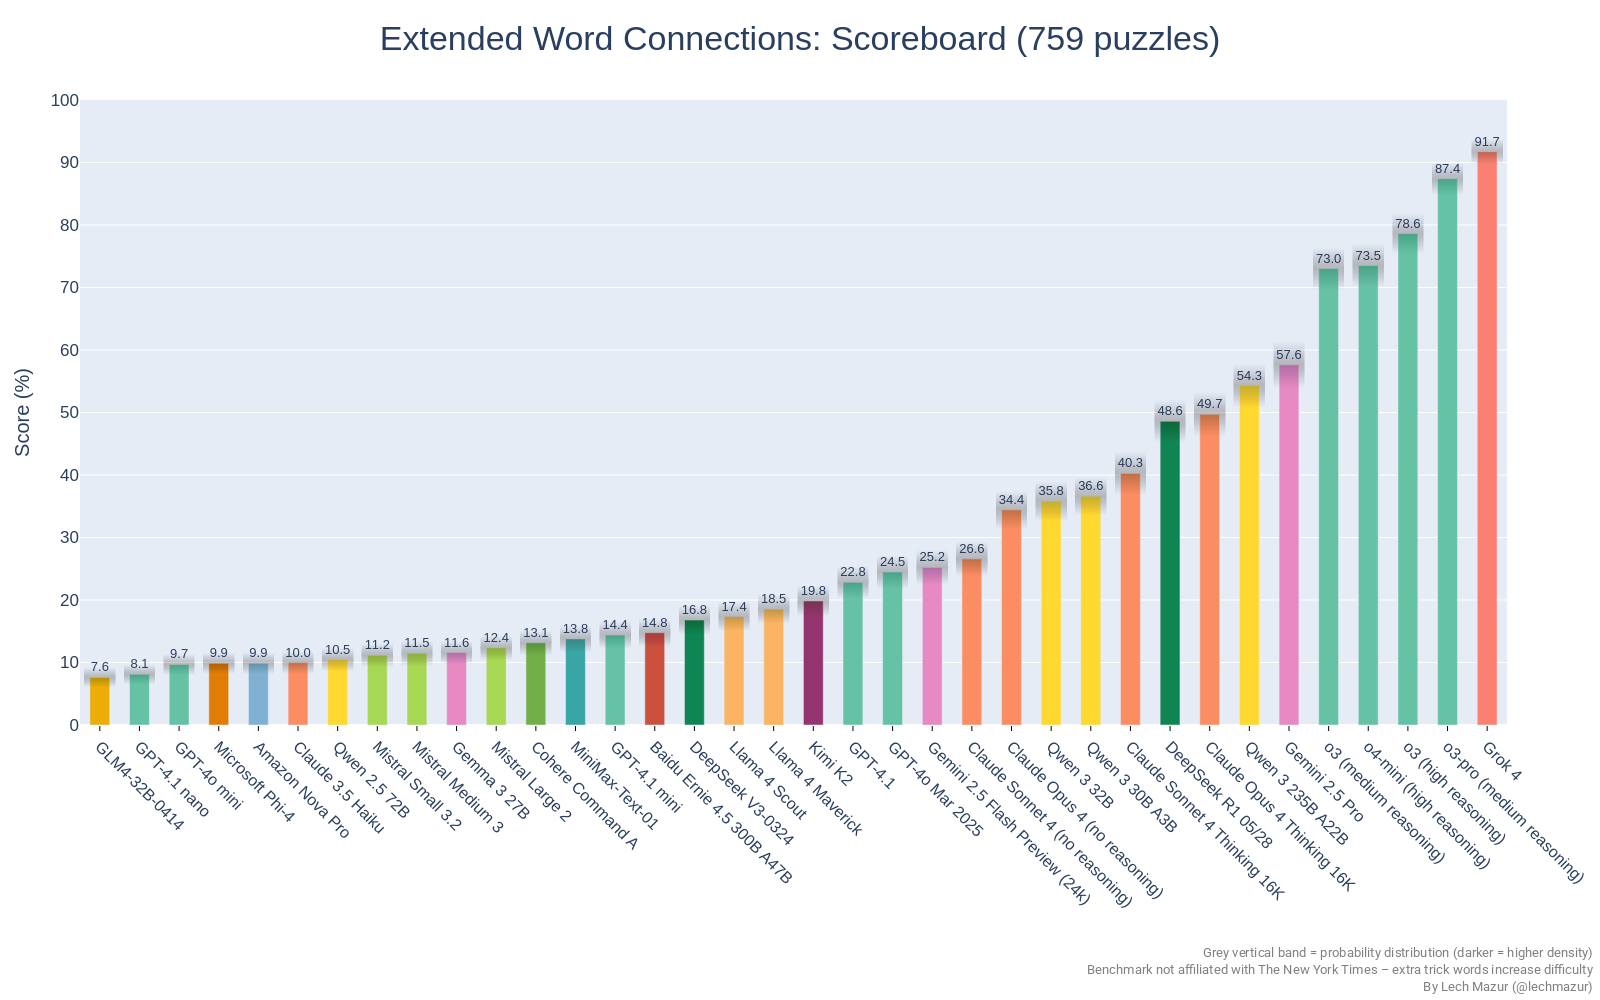
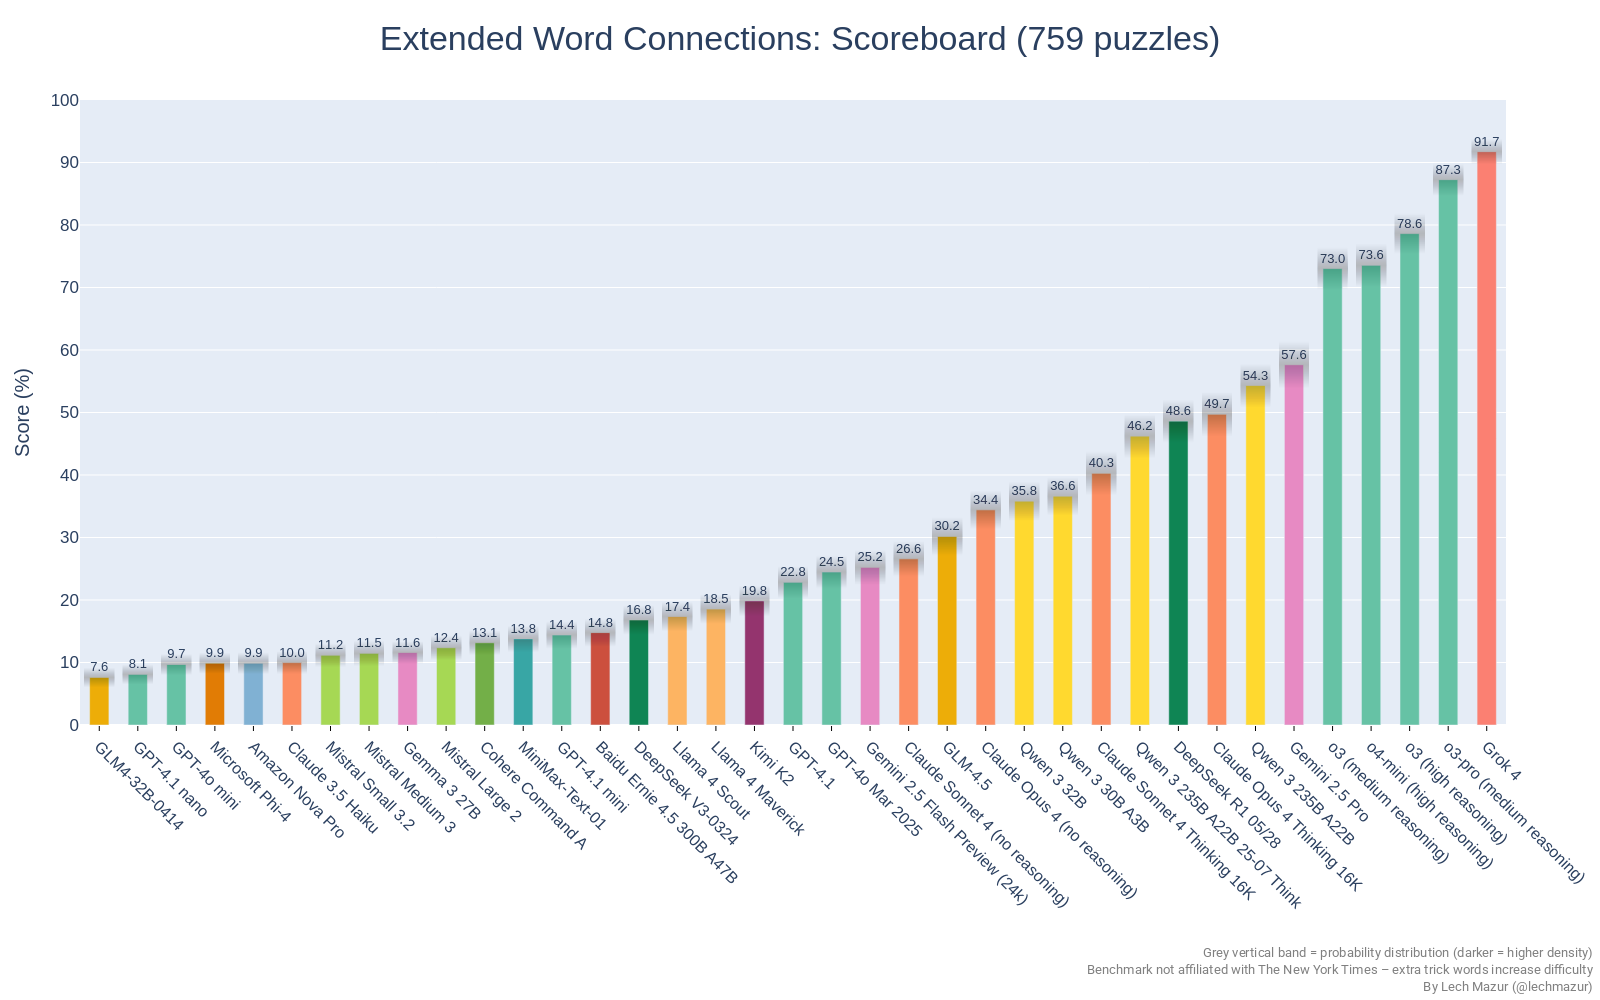
GLM-4.5, Qwen 3 235B A22B 25-07 Thinking

Changed region(s): [[0.0625, 0.248, 0.9688, 0.899], [0.875, 0.217, 0.9062, 0.248]]

diff --git a/README.md b/README.md
@@ -13,10 +13,10 @@ As of Feb 4, 2025, there is a new version of the benchmark. The standard NYT Con
 |Rank|Model|Score %|#Puzzles|
 |---:|-----|------:|-------:|
 |1|Grok 4|91.7|759|
-|2|o3-pro (medium reasoning)|87.4|756|
+|2|o3-pro (medium reasoning)|87.3|759|
 |3|o1-pro (medium reasoning)|82.5|651|
 |4|o3 (high reasoning)|78.6|759|
-|5|o4-mini (high reasoning)|73.5|758|
+|5|o4-mini (high reasoning)|73.6|759|
 |6|o3 (medium reasoning)|73.0|759|
 |7|o1 (medium reasoning)|70.8|651|
 |8|o4-mini (medium reasoning)|68.8|651|
@@ -27,64 +27,66 @@ As of Feb 4, 2025, there is a new version of the benchmark. The standard NYT Con
 |13|o3-mini (medium reasoning)|53.6|651|
 |14|Claude Opus 4 Thinking 16K|49.7|759|
 |15|DeepSeek R1 05/28|48.6|759|
-|16|Gemini 2.5 Pro Preview 05-06|42.5|651|
-|17|Claude Sonnet 4 Thinking 16K|40.3|759|
-|18|Claude Sonnet 4 Thinking 64K|39.6|651|
-|19|DeepSeek R1|38.6|651|
-|20|Qwen 3 30B A3B|36.6|759|
-|21|Qwen 3 32B|35.8|759|
-|22|Claude Opus 4 (no reasoning)|34.4|759|
-|23|GPT-4.5 Preview|34.2|651|
-|24|Claude 3.7 Sonnet Thinking 16K|33.6|651|
-|25|Qwen QwQ-32B 16K|31.4|651|
-|26|Grok 3 Mini Beta (high)|30.2|759|
-|27|o1-mini|26.9|651|
-|28|Claude Sonnet 4 (no reasoning)|26.6|759|
-|29|Grok 3 Mini Beta (low)|26.0|651|
-|30|Quasar Alpha|25.4|651|
-|31|Gemini 2.5 Flash Preview (24k)|25.2|759|
-|32|GPT-4o Mar 2025|24.5|759|
-|33|Gemini 2.0 Flash Think Exp 01-21|23.1|649|
-|34|GPT-4.1|22.8|759|
-|35|GPT-4o Feb 2025|22.7|651|
-|36|Gemini 2.0 Pro Exp 02-05|21.7|651|
-|37|MiniMax-M1|21.3|688|
-|38|Kimi K2|19.8|759|
-|39|Grok 3 Beta (no reasoning)|19.7|759|
-|40|Grok 2 12-12|19.2|651|
-|41|Gemini 1.5 Pro (Sept)|19.2|601|
-|42|Claude 3 Opus|19.2|650|
-|43|Claude 3.7 Sonnet|19.2|651|
-|44|Gemini 2.0 Flash|18.8|651|
-|45|GPT-4o 2024-11-20|18.7|601|
-|46|Llama 4 Maverick|18.5|759|
-|47|Qwen 2.5 Max|18.0|651|
-|48|GPT-4o 2024-08-06|17.8|601|
-|49|Claude 3.5 Sonnet 2024-10-22|17.7|651|
-|50|Llama 4 Scout|17.4|759|
-|51|DeepSeek V3-0324|16.8|759|
-|52|Llama 3.1 405B|16.2|651|
-|53|DeepSeek V3|15.1|651|
-|54|Llama 3.3 70B|15.1|651|
-|55|Baidu Ernie 4.5 300B A47B|14.8|759|
-|56|GPT-4.1 mini|14.4|759|
-|57|MiniMax-Text-01|13.8|759|
-|58|Cohere Command A|13.1|759|
-|59|Mistral Large 2|12.4|759|
-|60|Gemma 2 27B|12.2|651|
-|61|Gemma 3 27B|11.6|759|
-|62|Mistral Medium 3|11.5|759|
-|63|Mistral Small 3.1|11.4|651|
-|64|Mistral Small 3.2|11.2|759|
-|65|Qwen 2.5 72B|10.5|759|
-|66|Claude 3.5 Haiku|10.0|759|
-|67|Amazon Nova Pro|9.9|759|
-|68|Microsoft Phi-4|9.9|759|
-|69|GPT-4o mini|9.7|759|
-|70|Mistral Small 3|8.9|601|
-|71|GPT-4.1 nano|8.1|759|
-|72|GLM4-32B-0414|7.6|759|
-|73|Claude 3 Haiku|2.2|601|
+|16|Qwen 3 235B A22B 25-07 Think|46.2|759|
+|17|Gemini 2.5 Pro Preview 05-06|42.5|651|
+|18|Claude Sonnet 4 Thinking 16K|40.3|759|
+|19|Claude Sonnet 4 Thinking 64K|39.6|651|
+|20|DeepSeek R1|38.6|651|
+|21|Qwen 3 30B A3B|36.6|759|
+|22|Qwen 3 32B|35.8|759|
+|23|Claude Opus 4 (no reasoning)|34.4|759|
+|24|GPT-4.5 Preview|34.2|651|
+|25|Claude 3.7 Sonnet Thinking 16K|33.6|651|
+|26|Qwen QwQ-32B 16K|31.4|651|
+|27|Grok 3 Mini Beta (high)|30.2|759|
+|28|GLM-4.5|30.2|759|
+|29|o1-mini|26.9|651|
+|30|Claude Sonnet 4 (no reasoning)|26.6|759|
+|31|Grok 3 Mini Beta (low)|26.0|651|
+|32|Quasar Alpha|25.4|651|
+|33|Gemini 2.5 Flash Preview (24k)|25.2|759|
+|34|GPT-4o Mar 2025|24.5|759|
+|35|Gemini 2.0 Flash Think Exp 01-21|23.1|649|
+|36|GPT-4.1|22.8|759|
+|37|GPT-4o Feb 2025|22.7|651|
+|38|Gemini 2.0 Pro Exp 02-05|21.7|651|
+|39|MiniMax-M1|21.3|688|
+|40|Kimi K2|19.8|759|
+|41|Grok 3 Beta (no reasoning)|19.7|759|
+|42|Grok 2 12-12|19.2|651|
+|43|Gemini 1.5 Pro (Sept)|19.2|601|
+|44|Claude 3 Opus|19.2|650|
+|45|Claude 3.7 Sonnet|19.2|651|
+|46|Gemini 2.0 Flash|18.8|651|
+|47|GPT-4o 2024-11-20|18.7|601|
+|48|Llama 4 Maverick|18.5|759|
+|49|Qwen 2.5 Max|18.0|651|
+|50|GPT-4o 2024-08-06|17.8|601|
+|51|Claude 3.5 Sonnet 2024-10-22|17.7|651|
+|52|Llama 4 Scout|17.4|759|
+|53|DeepSeek V3-0324|16.8|759|
+|54|Llama 3.1 405B|16.2|651|
+|55|DeepSeek V3|15.1|651|
+|56|Llama 3.3 70B|15.1|651|
+|57|Baidu Ernie 4.5 300B A47B|14.8|759|
+|58|GPT-4.1 mini|14.4|759|
+|59|MiniMax-Text-01|13.8|759|
+|60|Cohere Command A|13.1|759|
+|61|Mistral Large 2|12.4|759|
+|62|Gemma 2 27B|12.2|651|
+|63|Gemma 3 27B|11.6|759|
+|64|Mistral Medium 3|11.5|759|
+|65|Mistral Small 3.1|11.4|651|
+|66|Mistral Small 3.2|11.2|759|
+|67|Qwen 2.5 72B|10.5|759|
+|68|Claude 3.5 Haiku|10.0|759|
+|69|Amazon Nova Pro|9.9|759|
+|70|Microsoft Phi-4|9.9|759|
+|71|GPT-4o mini|9.7|759|
+|72|Mistral Small 3|8.9|601|
+|73|GPT-4.1 nano|8.1|759|
+|74|GLM4-32B-0414|7.6|759|
+|75|Claude 3 Haiku|2.2|601|
 
 
 ---
@@ -174,6 +176,7 @@ This benchmark evaluates large language models (LLMs) using 436 NYT Connections 
 ---
 
 ## Other multi-agent benchmarks
+- [BAZAAR - Evaluating LLMs in Economic Decision-Making within a Competitive Simulated Market](https://github.com/lechmazur/bazaar)
 - [Public Goods Game (PGG) Benchmark: Contribute & Punish](https://github.com/lechmazur/pgg_bench/)
 - [Elimination Game: Social Reasoning and Deception in Multi-Agent LLMs](https://github.com/lechmazur/elimination_game/)
 - [Step Race: Collaboration vs. Misdirection Under Pressure](https://github.com/lechmazur/step_game/)
@@ -188,6 +191,7 @@ This benchmark evaluates large language models (LLMs) using 436 NYT Connections 
 ---
 
 ## Updates
+- July 28, 2025: GLM-4.5, Qwen 3 235B A22B 25-07 Thinking added.
 - July 14, 2025: 108 new puzzles added. Kimi K2 added.
 - July 10, 2025: Grok 4 added.
 - July 3, 2025: Qwen 3 32B, GLM4-32B-0414 added.
